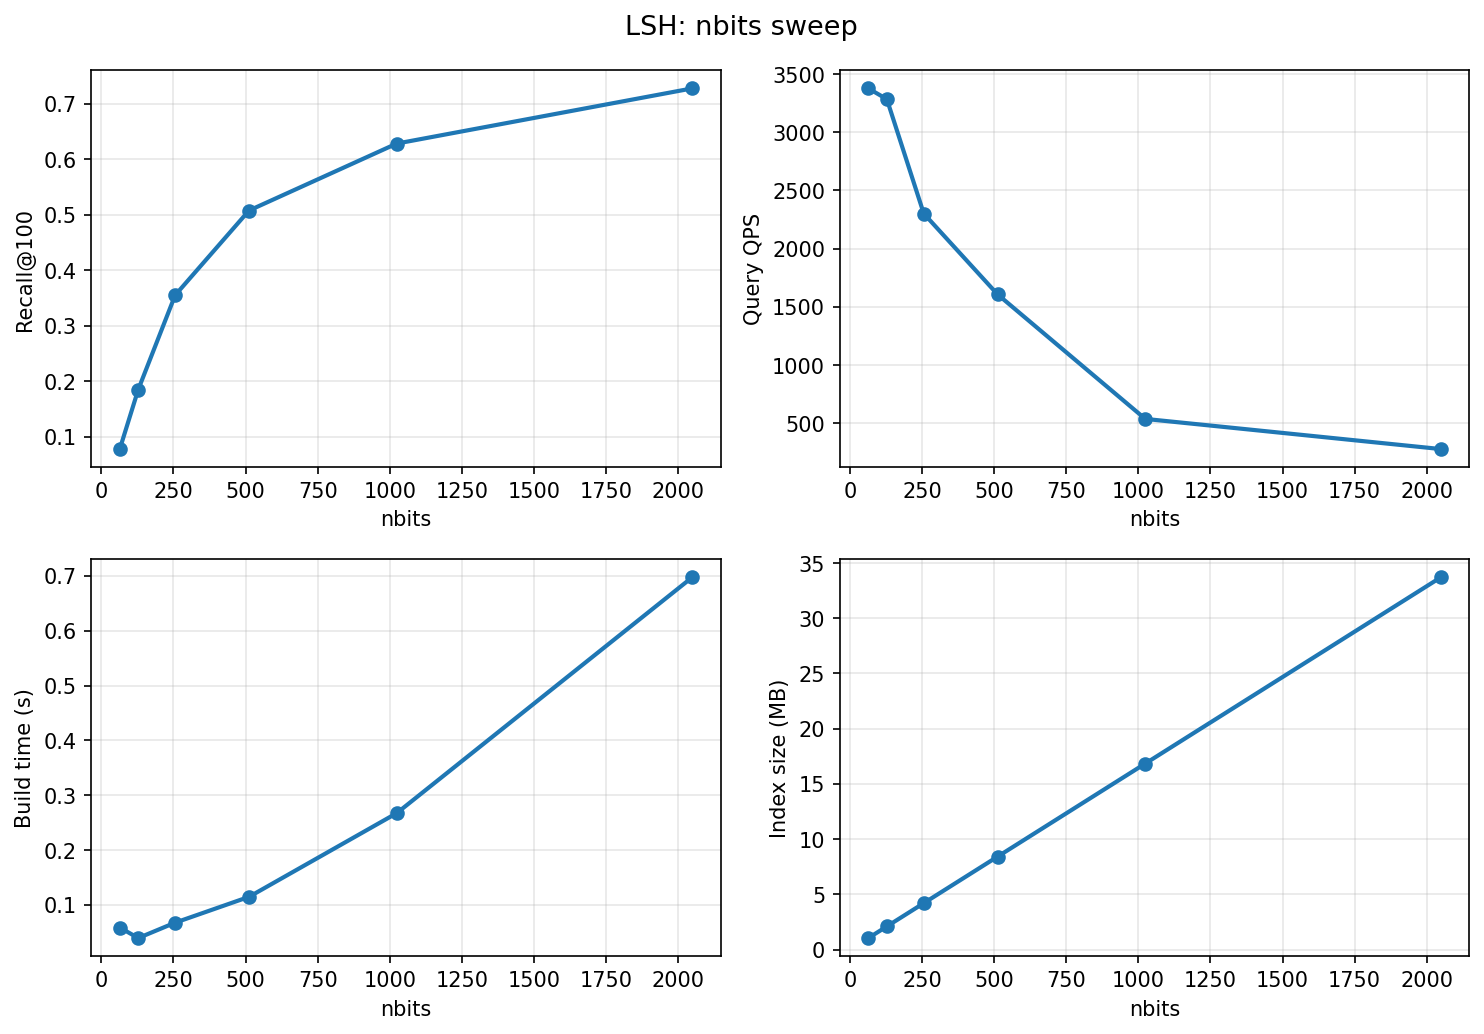
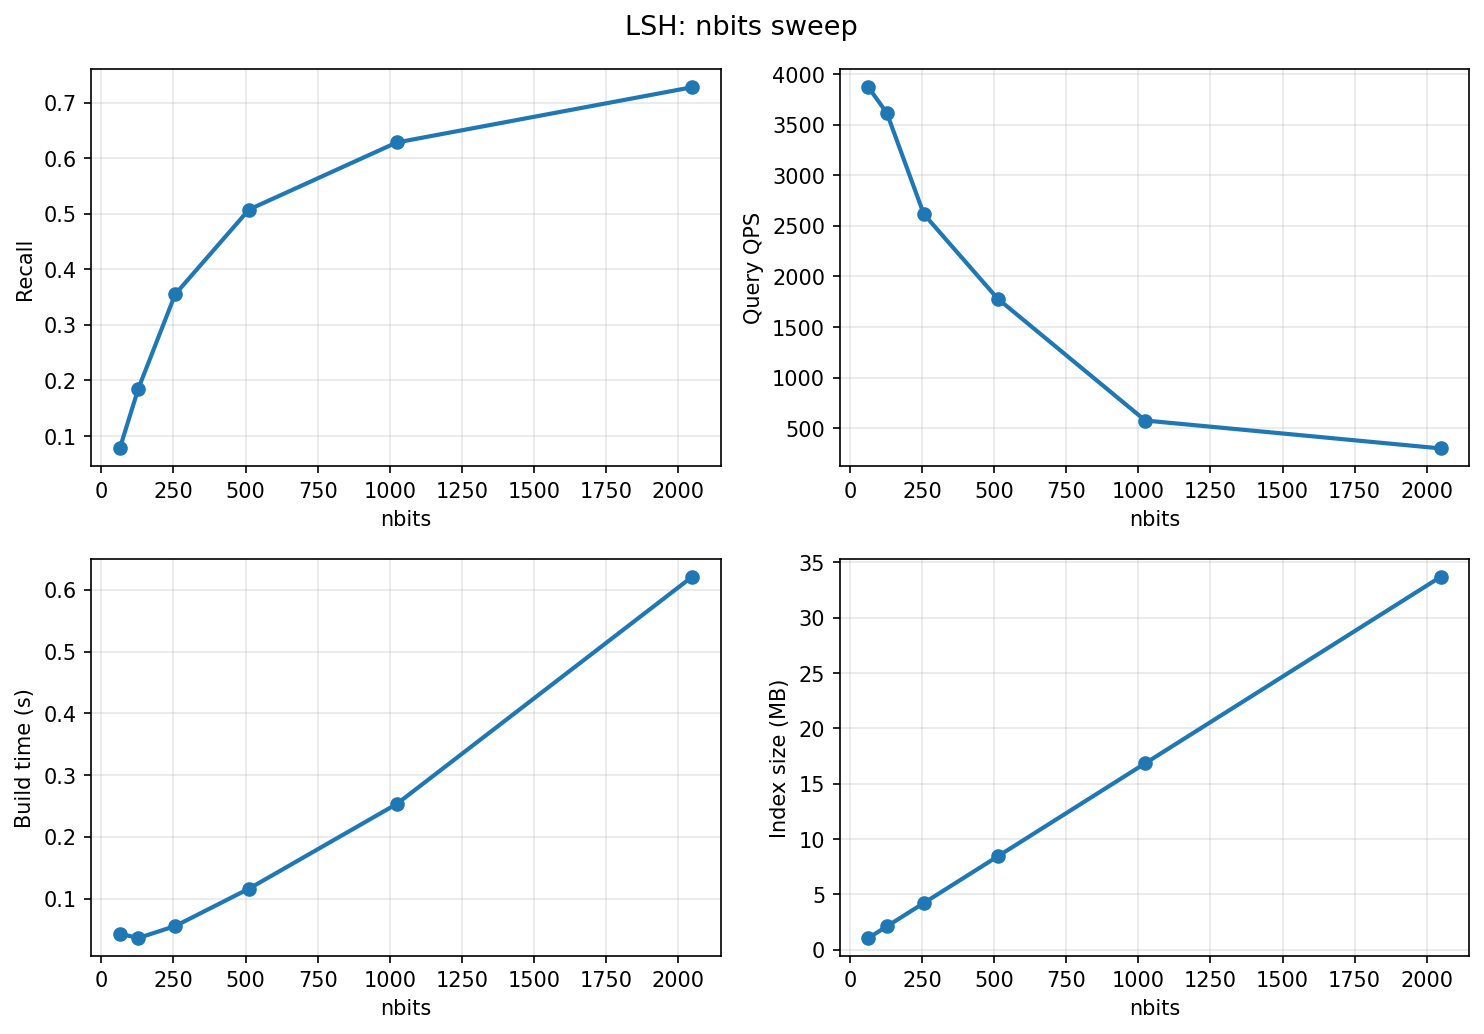
fixes

diff --git a/02_benchmark.py b/02_benchmark.py
@@ -12,7 +12,6 @@ matplotlib.use("Agg")
 
 INDEX_SIZE = 500_000   # effectively uses the full corpus (~185k nouns)
 TOP_K = 100
-SEED = 42
 GRAPHS_DIR = "graphs"
 
 HNSW_M_VALUES = [2, 4, 6, 8, 10, 12]
@@ -122,7 +121,6 @@ def build_index_set(
 def evaluate_hnsw(index, query_vectors, query_local_pos, gt_local, k):
     recalls = []
     t0 = time.perf_counter()
-    fallback_hits = 0
     for i, qv in enumerate(query_vectors):
         # Some sparse HNSW configs (low m / ef) can fail for high k.
         # Retry with smaller request sizes so the full grid run does not crash.
@@ -134,18 +132,12 @@ def evaluate_hnsw(index, query_vectors, query_local_pos, gt_local, k):
             except RuntimeError:
                 continue
         if labels is None:
-            fallback_hits += 1
             neighbours = []
         else:
             neighbours = [x for x in labels[0].tolist() if x !=
                           int(query_local_pos[i])][:k]
-            if len(neighbours) < k:
-                fallback_hits += 1
         recalls.append(recall_at_k(neighbours, gt_local[i], k))
     elapsed = time.perf_counter() - t0
-    if fallback_hits:
-        print(
-            f"    note: hnsw fallback used for {fallback_hits} / {len(query_vectors)} queries")
     return float(np.mean(recalls)), len(query_vectors) / elapsed
 
 
@@ -165,7 +157,7 @@ def plot_sweep(x_values, results, x_label, title, path):
     fig, axes = plt.subplots(2, 2, figsize=(10, 7))
     fig.suptitle(title, fontsize=13)
     metrics = [
-        ("recall",    "Recall@100"),
+        ("recall",    "Recall"),
         ("query_qps", "Query QPS"),
         ("build_s",   "Build time (s)"),
         ("size_mb",   "Index size (MB)"),
@@ -197,7 +189,7 @@ def plot_comparison(hnsw_res, lsh_res, ivfpq_res, path):
         qps = [r["query_qps"] for r in res]
         ax.scatter(recalls, qps, label=label, color=color,
                    marker=marker, s=45, alpha=0.8)
-    ax.set_xlabel("Recall@100", fontsize=12)
+    ax.set_xlabel("Recall", fontsize=12)
     ax.set_ylabel("Query QPS", fontsize=12)
     ax.set_yscale("log")
     ax.legend(fontsize=11)
@@ -211,7 +203,7 @@ def plot_comparison(hnsw_res, lsh_res, ivfpq_res, path):
         sizes = [r["size_mb"] for r in res]
         ax.scatter(recalls, sizes, label=label, color=color,
                    marker=marker, s=45, alpha=0.8)
-    ax.set_xlabel("Recall@100", fontsize=12)
+    ax.set_xlabel("Recall", fontsize=12)
     ax.set_ylabel("Index size (MB)", fontsize=12)
     ax.legend(fontsize=11)
     ax.grid(True, alpha=0.3)
@@ -225,7 +217,7 @@ def plot_comparison(hnsw_res, lsh_res, ivfpq_res, path):
 
 
 def print_table(rows, param_key, param_label):
-    header = f"  {param_label:<10} {'Build (s)':>10} {'Recall@100':>11} {'Query QPS':>11} {'Size (MB)':>10}"
+    header = f"  {param_label:<10} {'Build (s)':>10} {'Recall':>11} {'Query QPS':>11} {'Size (MB)':>10}"
     print(header)
     print("  " + "-" * (len(header) - 2))
     for r in rows:
@@ -236,7 +228,7 @@ def print_table(rows, param_key, param_label):
 
 def main():
     os.makedirs(GRAPHS_DIR, exist_ok=True)
-    rng = np.random.default_rng(SEED)
+    rng = np.random.default_rng(1)
 
     corpus_vectors, _, query_indices, ground_truth = load_data()
     n_corpus, dim = corpus_vectors.shape
@@ -251,7 +243,6 @@ def main():
     print(
         f"index: {n_index} vectors  ({len(query_indices)} query + {n_extra} random)\n")
 
-    # ── HNSW: full (m, ef) grid ──────────────────────────────────────────────────
     print("=== HNSW: full grid (m x ef_construction, ef_query auto >= k+1) ===")
     hnsw_grid_results = []
     for m in HNSW_M_VALUES:
@@ -274,7 +265,7 @@ def main():
                 {"m": m, "ef": ef, "build_s": build_s, "recall": recall,
                     "query_qps": qps, "size_mb": size_mb}
             )
-    # ── LSH: nbits sweep ─────────────────────────────────────────────────────────
+
     print("=== LSH: nbits sweep ===")
     lsh_nbits_results = []
     for nbits in LSH_NBITS_VALUES:
@@ -293,7 +284,6 @@ def main():
     plot_sweep(LSH_NBITS_VALUES, lsh_nbits_results, "nbits",
                "LSH: nbits sweep", f"{GRAPHS_DIR}/lsh_nbits_sweep.png")
 
-    # ── IVF+PQ: full grid ─────────────────────────────────────────────────────────
     print("=== IVF+PQ: full grid (m_pq x nbits x nlist x nprobe) ===")
     ivfpq_grid_results = []
     for m_pq in IVFPQ_M_PQ_VALUES:
@@ -326,7 +316,7 @@ def main():
                             "size_mb": base_size_mb,
                         }
                     )
-    # ── comparison ───────────────────────────────────────────────────────────────
+
     print("=== comparison plot ===")
     plot_comparison(hnsw_grid_results, lsh_nbits_results, ivfpq_grid_results,
                     f"{GRAPHS_DIR}/comparison.png")
